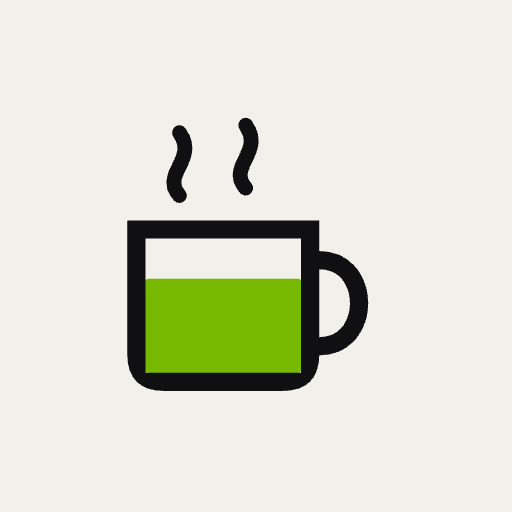
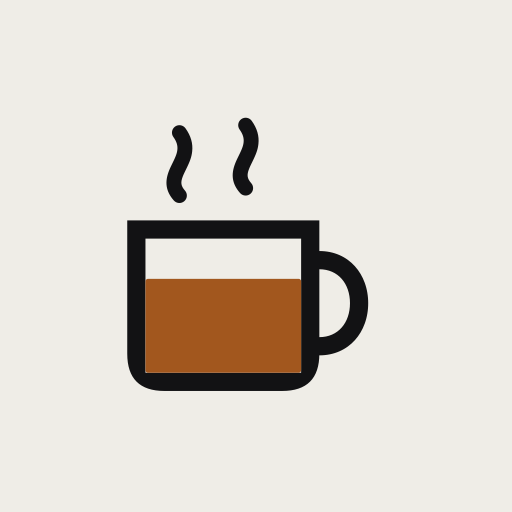
feat(site): move the accent off #76B900 to a two-colour system
The accent was #76B900, which is NVIDIA's brand colour. coffee-bar is a
personal Apache-2.0 product published from an nvidia.com account, so the
colour can read as corporate endorsement. The accent also fills the liquid
in a cup, and coffee is not green.

One accent becomes two, with two jobs that never mix:

  --state   #A2571E light / #B8682A dark. The liquid, and the held segments
            on the timeline. It means "held awake".
  --action  #FF9500 light / #FF9F0A dark. Apple systemOrange for buttons,
            links and focus rings. It means "you can operate this".

The old --liquid token becomes --state, because the colour now means "held"
and a second colour now means "interactive". Neither colour carries text:
both fail 4.5:1 as a foreground on the background. Ink on --action measures
8.51 in light and 9.10 in dark, so a filled button is the opposite case and
is fine.

The inline <style> block moves out of index.html into assets/site.css so the
four pages can share one stylesheet, and gains the sidebar layout and the
44px download button. This is a move plus a recolour, not a rewrite: all 59
selectors from the inline block survive.

The two appicon SVGs change one hex literal each, and the six rasters are
recut from them with qlmanage. icon-512-maskable keeps its safe-zone inset,
measured from the shipped file at exactly 0.72 about the canvas centre.

Because the SVGs are now the source, the rasters also pick up the SVG base
[…]

Changed region(s): [[0.2812, 0.5312, 0.5938, 0.75]]

diff --git a/site/assets/site.css b/site/assets/site.css
@@ -1,0 +1,260 @@
+/*
+  Copyright 2026 Carlos Eduardo Arango Gutierrez
+  SPDX-License-Identifier: Apache-2.0
+
+  The shared stylesheet for the coffee-bar site. Extracted from the inline
+  <style> block of site/index.html and recoloured per the 2026-08-04 design,
+  section 3.2. This was a move plus a recolour, not a rewrite.
+
+  TWO COLOURS, TWO JOBS. Never mix them.
+
+    --state   the liquid in the icon, held segments on the timeline, the
+              .eyebrow square, list bullets. It means "held awake".
+    --action  button backgrounds, link underlines and hover, :focus-visible
+              outlines, the sidebar's current-page marker. It means
+              "you can operate this".
+
+  The old --liquid token is now --state. The name changed because the colour
+  now means "held", and a second colour now means "interactive".
+
+  NEITHER COLOUR MAY CARRY TEXT. Both fail 4.5:1 as a foreground on --bg. A
+  filled button is the opposite case and is fine: ink on --action measures
+  8.51 in light and 9.10 in dark.
+
+  Sidebar markup contract — plain links, no JavaScript:
+
+    <div class="shell">
+      <nav class="sidebar" aria-label="Site">
+        <a class="sidebar-mark" href="index.html">coffee-bar</a>
+        <ul>
+          <li><a href="index.html" aria-current="page">Home</a></li>
+          <li><a href="install.html">Install</a></li>
+          <li><a href="docs.html">Docs</a></li>
+          <li><a href="changelog.html">Changelog</a></li>
+        </ul>
+      </nav>
+      <div class="wrap"><!-- page content --></div>
+    </div>
+
+  .wrap still renders correctly on its own, so a page that carries no sidebar
+  is unaffected.
+*/
+
+:root {
+  color-scheme: light dark;
+  --state:  #A2571E;  /* the liquid; held awake */
+  --action: #FF9500;  /* Apple systemOrange; buttons, links, focus */
+  --rest:   #6B7683;  /* released; free to sleep */
+  --ink:    #121214;
+  --paper:  #F2F0EB;
+  --fg:     var(--ink);
+  --bg:     var(--paper);
+  --dim:    #55585F;
+  --line:   #E0DDD5;
+  --panel:  #E9E6DE;
+}
+@media (prefers-color-scheme: dark) {
+  :root {
+    --state:  #B8682A;
+    --action: #FF9F0A;
+    --fg:     #F2F1EE;
+    --bg:     #101013;
+    --dim:    #9AA0A8;
+    --line:   #24242A;
+    --panel:  #191920;
+  }
+}
+
+*, *::before, *::after { box-sizing: border-box; }
+
+body {
+  margin: 0; background: var(--bg); color: var(--fg);
+  font: 16.5px/1.7 -apple-system, BlinkMacSystemFont, "Segoe UI", system-ui, sans-serif;
+  -webkit-font-smoothing: antialiased;
+}
+.wrap { max-width: 46rem; margin: 0 auto; padding: 4rem 1.5rem 6rem; }
+
+.mono, h1, .eyebrow, code, pre, .track-label, .phase, .state-name {
+  font-family: ui-monospace, SFMono-Regular, "SF Mono", Menlo, monospace;
+}
+
+/* ── Focus: visible on every interactive element ───────────────────────── */
+:focus-visible {
+  outline: 2px solid var(--action); outline-offset: 3px; border-radius: 2px;
+}
+
+/* ── Shell: sidebar plus content ───────────────────────────────────────── */
+/* Below 48rem the sidebar is a horizontal row above the content. This is the
+   default, so a narrow viewport needs no query. */
+.shell { max-width: 64rem; margin: 0 auto; }
+.shell > .wrap { margin: 0; max-width: 46rem; }
+
+.sidebar { padding: 2rem 1.5rem 0; }
+.sidebar-mark {
+  display: inline-flex; align-items: center; min-height: 44px;
+  font-family: ui-monospace, SFMono-Regular, "SF Mono", Menlo, monospace;
+  font-weight: 700; letter-spacing: -.03em; text-decoration: none;
+  color: var(--fg);
+}
+.sidebar ul {
+  list-style: none; margin: 0; padding: 0;
+  display: flex; flex-wrap: wrap; gap: .15rem .35rem;
+}
+.sidebar a:not(.sidebar-mark) {
+  display: flex; align-items: center; min-height: 44px; padding: 0 .75rem;
+  border-radius: 6px; text-decoration: none; color: var(--dim);
+  font-size: .9rem;
+}
+.sidebar a:not(.sidebar-mark):hover { color: var(--fg); background: var(--panel); }
+.sidebar a[aria-current="page"] {
+  color: var(--fg); font-weight: 650;
+  box-shadow: inset 0 -2px 0 var(--action);
+}
+
+@media (min-width: 48rem) {
+  .shell {
+    display: grid; grid-template-columns: 13rem minmax(0, 1fr);
+    gap: 3rem; align-items: start; padding: 0 1.5rem;
+  }
+  .shell > .wrap { padding-left: 0; padding-right: 0; }
+  .sidebar { padding: 4rem 0 0; position: sticky; top: 2rem; }
+  .sidebar ul { display: block; margin-top: 1.5rem; }
+  .sidebar li + li { margin-top: .1rem; }
+  .sidebar a[aria-current="page"] {
+    background: var(--panel);
+    box-shadow: inset 2px 0 0 var(--action);
+  }
+}
+
+/* ── Hero ──────────────────────────────────────────────────────────────── */
+.hero { display: flex; align-items: center; gap: 1.25rem; margin-bottom: 1.1rem; }
+.appicon {
+  width: 84px; height: 84px; flex: none; border-radius: 19%;
+  display: block; box-shadow: 0 1px 3px rgba(0,0,0,.18);
+}
+h1 {
+  font-size: clamp(2rem, 7vw, 3rem); font-weight: 700;
+  letter-spacing: -0.045em; line-height: 1; margin: 0;
+}
+.tag {
+  font-size: clamp(1.05rem, 2.6vw, 1.28rem); line-height: 1.45;
+  margin: 0 0 3rem; max-width: 34ch; text-wrap: balance;
+}
+.tag em { font-style: normal; border-bottom: 2px solid var(--fg); }
+
+.eyebrow {
+  display: flex; align-items: center; gap: .6rem;
+  font-size: .72rem; font-weight: 600; text-transform: uppercase;
+  letter-spacing: .16em; color: var(--dim); margin: 3.5rem 0 1rem;
+}
+.eyebrow::before {
+  content: ""; width: .5rem; height: .5rem; flex: none; background: var(--state);
+}
+h2 { margin: 0; font-size: 1rem; }
+p { margin: 0 0 1.1rem; }
+/* Links carry body-text colour. The action colour rides the underline only,
+   because it does not reach 4.5:1 as a foreground. */
+a {
+  color: inherit; text-underline-offset: 3px;
+  text-decoration-color: var(--action); text-decoration-thickness: 1.5px;
+}
+a:hover { text-decoration-thickness: 2.5px; }
+a:focus-visible { outline: 2px solid var(--action); outline-offset: 3px; border-radius: 2px; }
+strong { font-weight: 650; }
+
+/* ── The download button ───────────────────────────────────────────────── */
+/* 44px is Apple's minimum hit target and is required. */
+.btn-download {
+  display: inline-flex; align-items: center; justify-content: center;
+  min-height: 44px; padding: 0 1.15rem;
+  background: var(--action); color: var(--ink);
+  border-radius: 8px; font-weight: 650; text-decoration: none;
+}
+.btn-download:hover { filter: brightness(1.06); }
+
+/* ── Signature: the assertion timeline ─────────────────────────────────── */
+.figure {
+  background: var(--panel); border: 1px solid var(--line);
+  border-radius: 10px; padding: 1.4rem 1.35rem 1.15rem; margin: 0 0 1.25rem;
+}
+.row { display: grid; grid-template-columns: 6.5rem 1fr; align-items: center; gap: .9rem; }
+.row + .row { margin-top: .55rem; }
+.track-label { font-size: .74rem; color: var(--dim); text-align: right; white-space: nowrap; }
+.track { display: flex; gap: 3px; height: 1.05rem; }
+.seg { border-radius: 2px; }
+.seg.work { background: var(--state); }
+.seg.wait { background: var(--rest); opacity: .38; }
+/* caffeinate holds CONTINUOUSLY. One unbroken bar, because segmenting it
+   would imply it ever lets go. */
+.track.caffeinate .seg { background: var(--state); opacity: .45; }
+
+.axis { display: grid; grid-template-columns: 6.5rem 1fr; gap: .9rem; margin-top: .45rem; }
+.phases { display: flex; gap: 3px; }
+.phase {
+  font-size: .62rem; letter-spacing: .02em; color: var(--dim);
+  padding: .3rem 0 0 .4rem; border-left: 1px solid var(--line);
+  overflow: hidden; text-overflow: ellipsis; white-space: nowrap;
+}
+.caption { font-size: .82rem; color: var(--dim); margin: 0 0 2rem; }
+.caption b { color: var(--fg); font-weight: 600; }
+
+@media (prefers-reduced-motion: no-preference) {
+  .track.coffeebar .seg.wait {
+    background: var(--state); opacity: .45;
+    animation: release .5s ease-out forwards;
+  }
+  .track.coffeebar .seg.wait.w1 { animation-delay: .75s; }
+  .track.coffeebar .seg.wait.w2 { animation-delay: 1.15s; }
+}
+@keyframes release { to { background: var(--rest); opacity: .38; } }
+
+/* ── The menu-bar states, in the real artwork ──────────────────────────── */
+.states { display: flex; flex-wrap: wrap; gap: 1.6rem; margin: 0 0 1rem; }
+.state { display: flex; align-items: flex-start; gap: .7rem; min-width: 13rem; flex: 1; }
+.state svg { width: 26px; height: 26px; flex: none; color: var(--fg); margin-top: .1rem; }
+.state-name { display: block; font-size: .78rem; font-weight: 600; letter-spacing: -.01em; }
+.state-what { display: block; font-size: .84rem; color: var(--dim); line-height: 1.5; }
+
+/* ── Lists ─────────────────────────────────────────────────────────────── */
+ul.does { list-style: none; padding: 0; margin: 0; }
+ul.does li { position: relative; padding-left: 1.5rem; margin: 0 0 .8rem; }
+ul.does li::before {
+  content: ""; position: absolute; left: 0; top: .62em;
+  width: .45rem; height: .45rem; background: var(--state); border-radius: 1px;
+}
+.note {
+  border-left: 2px solid var(--state); padding: .15rem 0 .15rem 1.1rem;
+  color: var(--dim); margin: 1.75rem 0 0;
+}
+
+/* ── Install: a real sequence, so the numbering carries meaning ────────── */
+ol.steps { list-style: none; counter-reset: s; padding: 0; margin: 0; }
+ol.steps > li { counter-increment: s; position: relative; padding-left: 2.4rem; margin-bottom: 1.8rem; }
+ol.steps > li::before {
+  content: counter(s, decimal-leading-zero);
+  position: absolute; left: 0; top: .15em;
+  font-family: ui-monospace, SFMono-Regular, Menlo, monospace;
+  font-size: .78rem; color: var(--dim); font-weight: 600;
+}
+ol.steps p { margin: .35rem 0 .6rem; }
+pre {
+  background: var(--panel); border: 1px solid var(--line);
+  padding: .8rem .95rem; border-radius: 6px; overflow-x: auto;
+  font-size: .82rem; margin: 0; line-height: 1.5;
+}
+pre.hooks { max-height: 22rem; overflow-y: auto; }
+code { font-size: .875em; }
+p code, li code { background: var(--panel); padding: .1em .35em; border-radius: 3px; }
+
+footer {
+  margin-top: 4.5rem; padding-top: 1.5rem; border-top: 1px solid var(--line);
+  color: var(--dim); font-size: .85rem;
+}
+
+@media (max-width: 34rem) {
+  .row, .axis { grid-template-columns: 1fr; gap: .35rem; }
+  .track-label { text-align: left; }
+  .axis { display: none; }
+  .hero { gap: 1rem; }
+  .appicon { width: 64px; height: 64px; }
+}

diff --git a/assets/art/README.md b/assets/art/README.md
@@ -4,7 +4,31 @@ One object at three scales: a 16×16 template glyph (menu bar), a 1024 layered a
 icon (Apple grid), and a web/GitHub set cut from the same geometry.
 
 **Colours** — ink `#121214` (light appearance) / `#F2F1EE` (dark), warm neutral base
-`#EFEDE7`, web tile `#F2F0EB`, single accent `#76B900` used **only** for the liquid.
+`#EFEDE7`, web tile `#F2F0EB`. Two accents, with two jobs:
+
+| Role | Light | Dark | Job |
+|---|---|---|---|
+| state | `#A2571E` | `#B8682A` | the liquid; held awake |
+| action | `#FF9500` | `#FF9F0A` | Apple `systemOrange`; buttons, links, focus |
+| rest | `#6B7683` | `#6B7683` | released; free to sleep |
+
+**Never mix the two.** `state` colours the liquid and the held segments — in the
+icon system it is used **only** for the liquid. `action` colours buttons, links
+and focus rings, and appears on the web only. Neither carries text: both fail
+4.5:1 on either background. Ink on `action` reaches 8.51 (light) and 9.10
+(dark), so a filled button carries body text.
+
+The accent moved off `#76B900` on 2026-08-04. That green is NVIDIA's brand
+colour and this is a personal Apache-2.0 product, so it can read as corporate
+endorsement — and coffee is not green.
+
+> **The recolour is not finished.** `site/**` carries the new accents. The app
+> icon sources under `assets/art/appicon/**`, the web set under
+> `assets/art/web/**`, and the GitHub art under `assets/art/github/**` all still
+> carry `#76B900`. Re-cutting them, and rebuilding `AppIcon.icns`, is a tracked
+> follow-up and is out of scope for the site redesign (design §8). Until it
+> lands, the installed app icon stays green while the site is roast.
+
 The menu-bar glyph has no colour at all — it is alpha only.
 
 > **Filenames:** the export pipeline strips `@` from filenames, so `@2x`/`@3x` assets
@@ -55,4 +79,4 @@ hyphenated — it is a command name. Clear space either side = one glyph width.
 
 ## Don't
 Skeuomorphic beans, saucers or latte art; sparkles, neural nets or other AI motifs;
-gradients; a second accent colour; any colour in the menu-bar glyph.
+gradients; a third accent colour; any colour in the menu-bar glyph.
